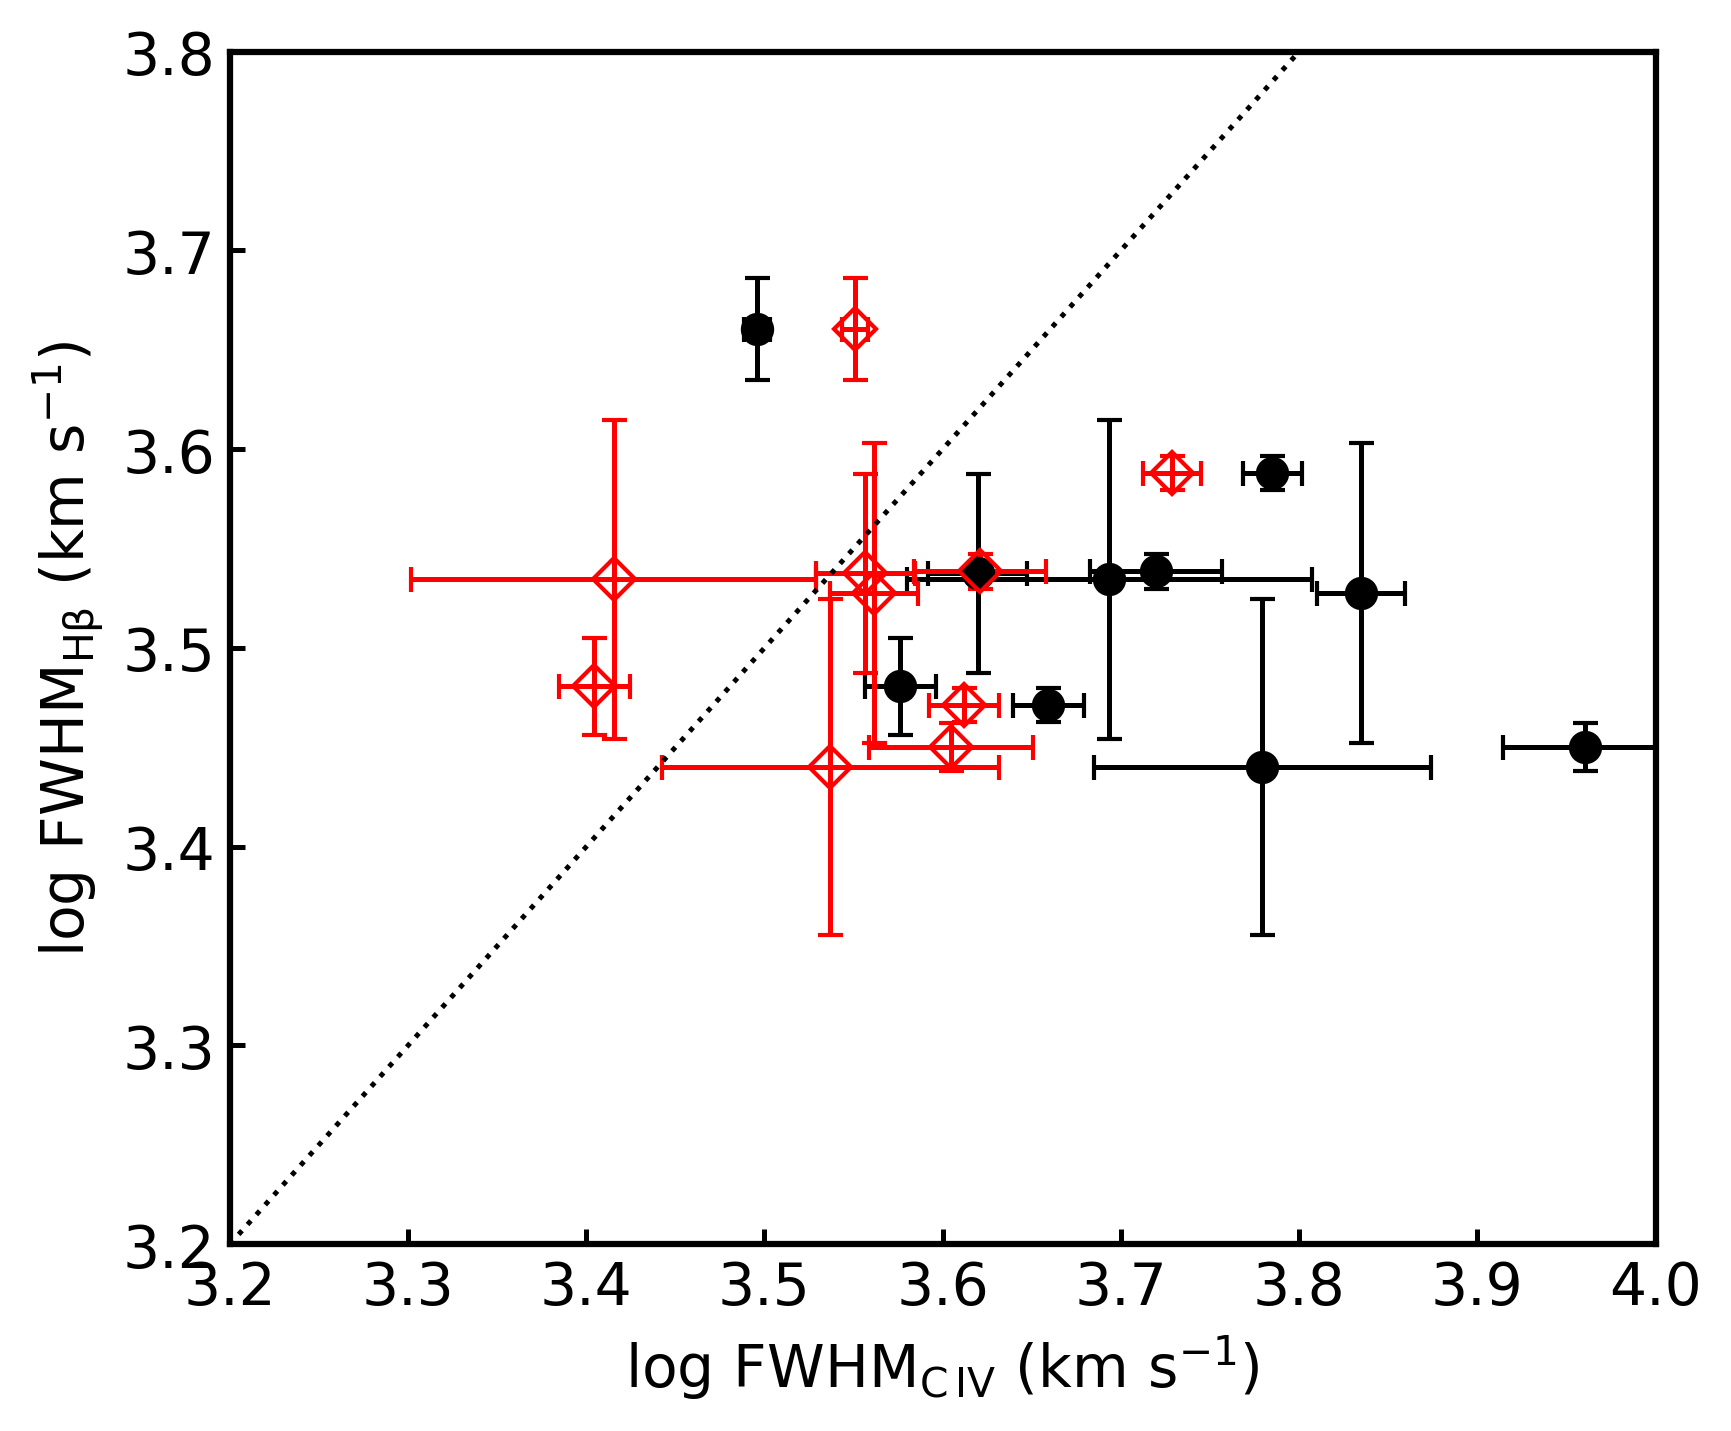
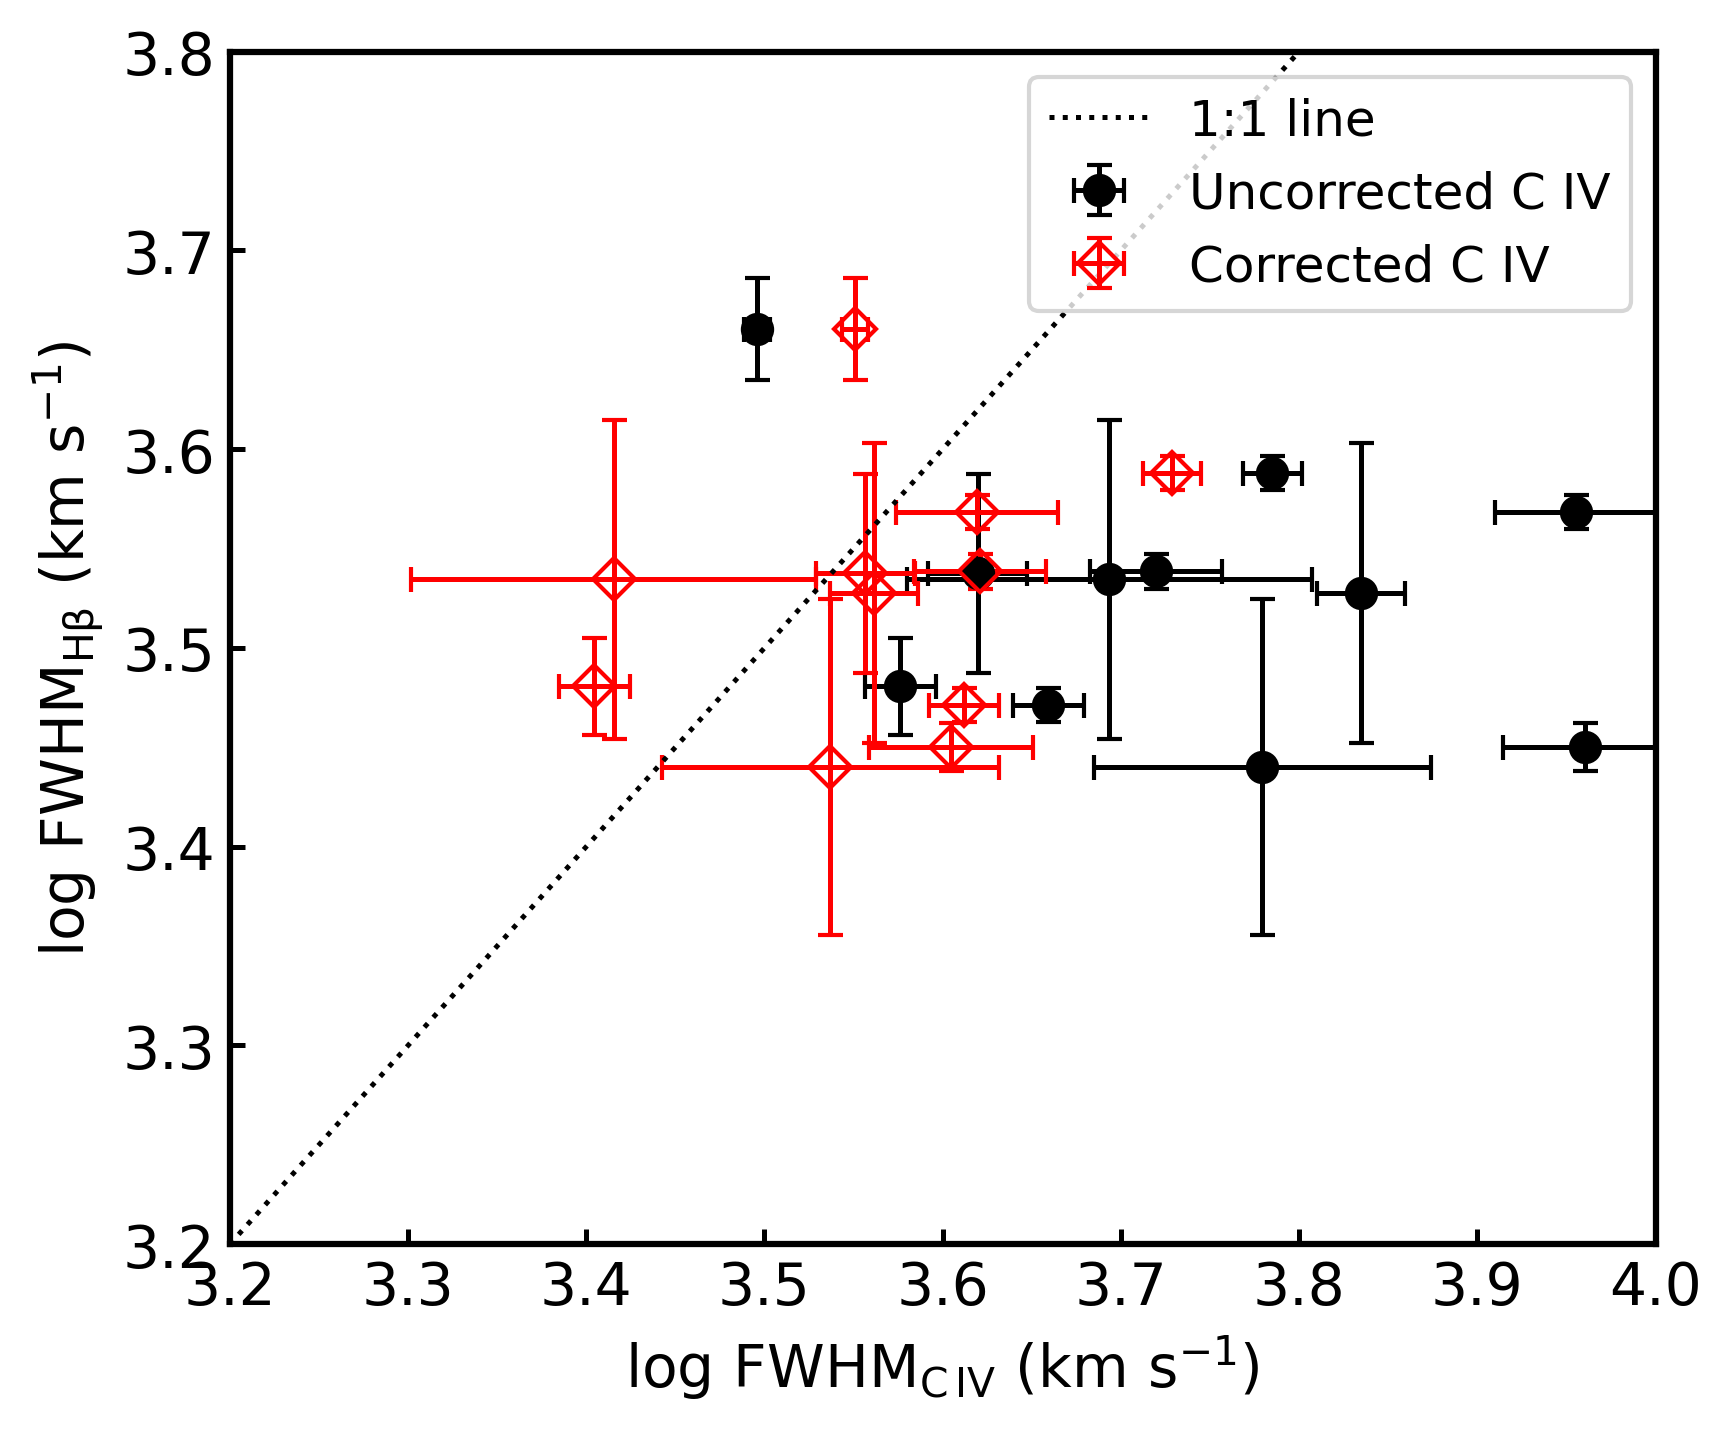
parallel distance possible callibrator plots and code. civ vs hbeta bhm plot.

diff --git a/data_plots_civ.py b/data_plots_civ.py
@@ -128,7 +128,70 @@ ax7.set_ylim(3.2, 3.8)
 xmin, xmax = ax7.get_xlim()
 line = np.linspace(xmin, xmax, 100)
 ax7.plot(line, line, linestyle=":", color="black", linewidth=1.2)
+ax7.legend(["1:1 line", "Uncorrected C IV", "Corrected C IV"], loc="upper right", fontsize=12)
 
 plt.tight_layout()
 fig7.savefig("logFWHM_Hb_vs_logFWHM_CIV_corrEq6.png", dpi=300, bbox_inches="tight")
 print("Saved: logFWHM_Hb_vs_logFWHM_CIV_corrEq6.png")
+
+# ---------------------------------------------------------
+# Figure 8-style: log Hβ_Mbh vs log CIV_Mbh
+# (red diamonds = corrected log CIV_Mbh using Eq. 6)
+# ---------------------------------------------------------
+dff = df[
+    np.isfinite(df["logMBH_CIV"]) &
+    np.isfinite(df["logMBH_CIV_err"]) &
+    np.isfinite(df["logMBH_CIV_corr_blueshift"]) &
+    np.isfinite(df["logMBH_Hb"]) &
+    np.isfinite(df["logMBH_Hb_err"])
+].copy()
+
+# log values
+x = (dff["logMBH_CIV"].to_numpy())
+x_corr = (dff["logMBH_CIV_corr_blueshift"].to_numpy())
+y = (dff["logMBH_Hb"].to_numpy())
+
+# convert linear errors to dex errors
+xerr = dff["logMBH_CIV_err"].to_numpy()
+xerr_corr = dff["logMBH_CIV_err"].to_numpy()
+yerr = dff["logMBH_Hb_err"].to_numpy()
+
+fig7 = plt.figure(figsize=(6, 5))
+ax7 = fig7.add_subplot(111)
+
+# black circles (uncorrected CIV)
+ax7.errorbar(
+    x, y,
+    xerr=xerr, yerr=yerr,
+    fmt="o", ms=7,
+    mfc="black", mec="black",
+    ecolor="black", elinewidth=1.2, capsize=3,
+    linestyle="none"
+)
+
+# red open diamonds (corrected CIV)
+ax7.errorbar(
+    x_corr, y,
+    xerr=xerr_corr, yerr=yerr,
+    fmt="D", ms=7,
+    mfc="none", mec="red",
+    ecolor="red", elinewidth=1.2, capsize=3,
+    linestyle="none"
+)
+
+ax7.set_xlabel(r"$\log\,\mathrm{MBH}_{\rm C\,IV}\ (\mathrm{M_\odot})$")
+ax7.set_ylabel(r"$\log\,\mathrm{MBH}_{\rm H\beta}\ (\mathrm{M_\odot})$")
+
+# Match Zuo-ish axis bounds (adjust if your sample pushes outside)
+ax7.set_xlim(8.5, 10.0)
+ax7.set_ylim(8.5, 10.0)
+
+# 1:1 correlation line (dotted)
+xmin, xmax = ax7.get_xlim()
+line = np.linspace(xmin, xmax, 100)
+ax7.plot(line, line, linestyle=":", color="black", linewidth=1.2)
+ax7.legend(["1:1 line", "Uncorrected C IV", "Corrected C IV"], loc="upper right", fontsize=12)
+
+plt.tight_layout()
+fig7.savefig("logMBH_Hb_vs_logMBH_CIV_corrEq6.png", dpi=300, bbox_inches="tight")
+print("Saved: logMBH_Hb_vs_logMBH_CIV_corrEq6.png")

diff --git a/data_calculations.py b/data_calculations.py
@@ -107,7 +107,11 @@ def bhm_civ_error(logL1350_err, FWHM, FWHM_err):
     term_L = B * logL1350_err
     term_F = (C / (LN10 * FWHM)) * FWHM_err
 
-    return np.sqrt(term_L**2 + term_F**2)
+    sigma_stat = np.sqrt(term_L**2 + term_F**2)
+
+    # sigma_total = np.sqrt(sigma_stat**2 + 0.4**2) # Add 0.4 dex systematic uncertainty in quadrature (typical for single-epoch BH masses)
+
+    return sigma_stat
 
 # Correction functions for blueshift and asymmetry
 
